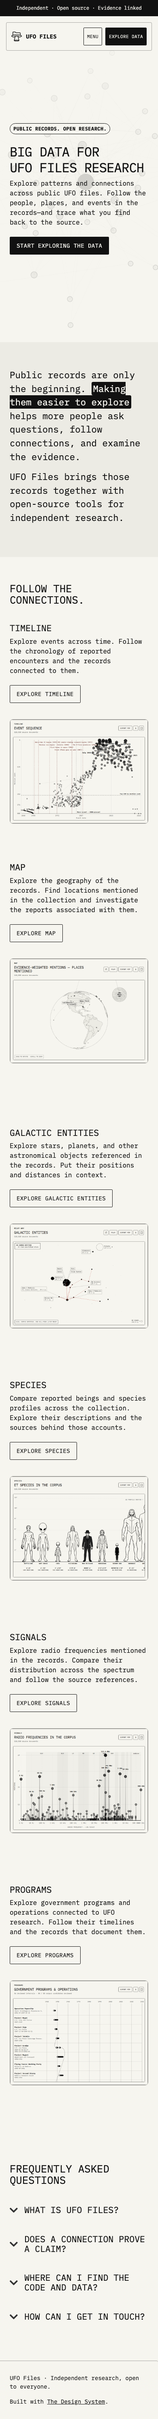
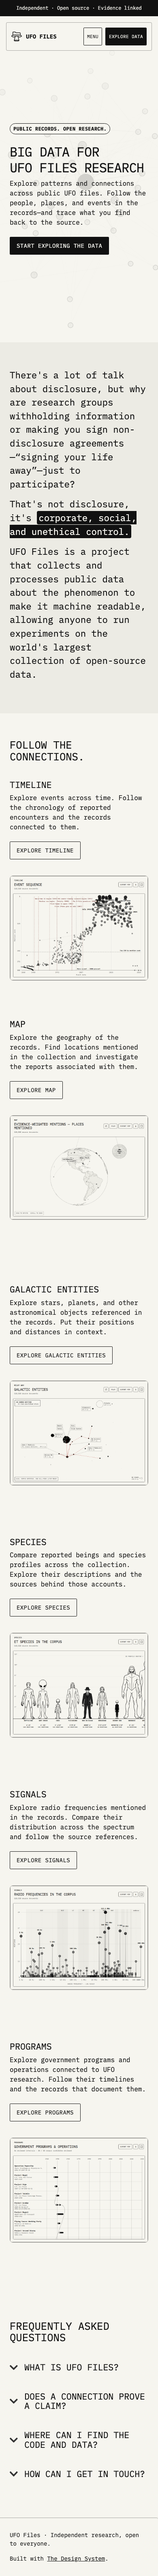
Update disclosure and public-data mission statement

diff --git a/index.html b/index.html
@@ -45,8 +45,9 @@
     </section>
     <section class="statement" aria-label="Our approach">
       <div class="wrapper">
-        <p>Public records are only the beginning. <span class="highlight">Making them easier to explore</span> helps more people ask questions, follow connections, and examine the evidence.</p>
-        <p>UFO Files brings those records together with open-source tools for independent research.</p>
+        <p>There's a lot of talk about disclosure, but why are research groups withholding information or making you sign non-disclosure agreements—“signing your life away”—just to participate?</p>
+        <p>That's not disclosure, it's <span class="highlight">corporate, social, and unethical control.</span></p>
+        <p>UFO Files is a project that collects and processes public data about the phenomenon to make it machine readable, allowing anyone to run experiments on the world's largest collection of open-source data.</p>
       </div>
     </section>
     <section id="research" class="why" aria-labelledby="research-title">
